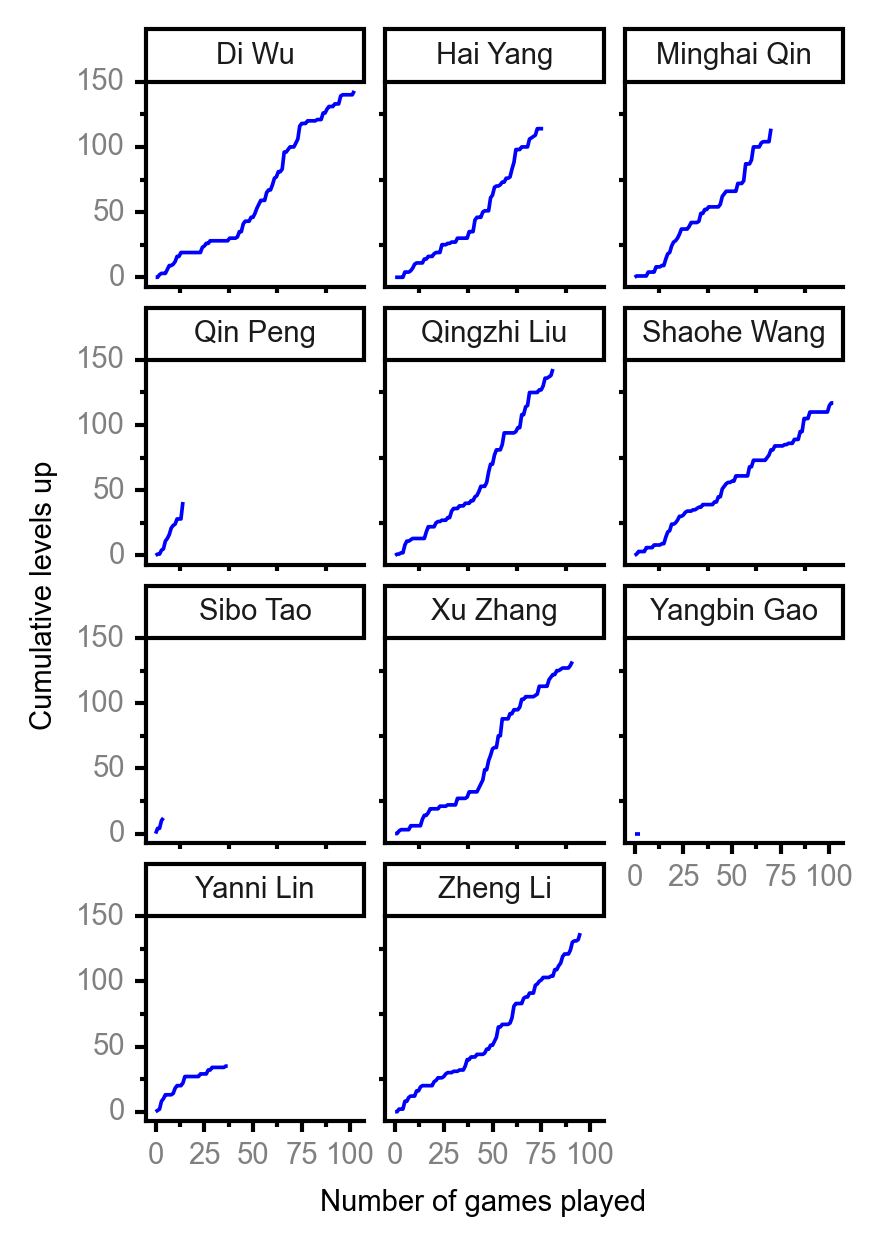
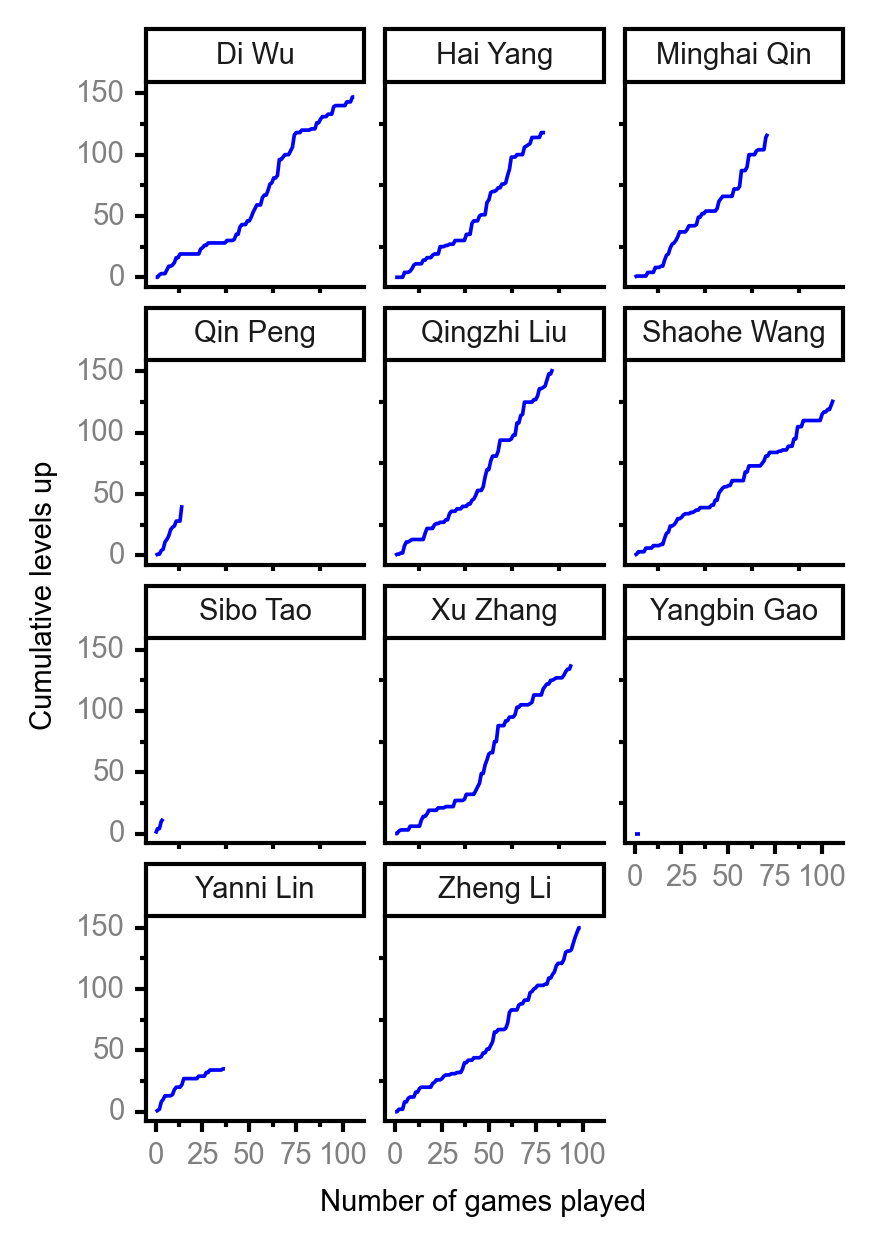
update player stats

diff --git a/player_stats.md b/player_stats.md
@@ -3,7 +3,7 @@ layout: player_stats
 title: Player Statistics
 author: Shaohe Wang
 author_url: https://scholar.google.com/citations?user=R_-kJV4AAAAJ&hl=en
-date: 2020-12-31
+date: 2021-01-02
 ---
 
 #### [Spreadsheet](https://docs.google.com/spreadsheets/d/1So3PBr9gV3I0LzApZOgJlQew2QjM1wAiWhR50rAnHRg/edit#gid=2137801449)
@@ -14,13 +14,13 @@ date: 2020-12-31
 
 | <br><br><br>Rank | <br><br><br>Player | <br> Lifetime <br> levels <br> up | <br><br> Winning <br> rate | <br> Average <br> levels <br> up | <br> Total <br> games <br> played | Games <br> played <br> as <br> MVP | Games <br> played <br> as <br> dealer | N_games <br> short <br> staffed <br> as dealer | Winning <br> rate <br> as <br> dealer |
 |:---:|:---:|:---:|:---:|:---:|:---:|:---:|:---:|:---:|:---:|
-| 1 | Qingzhi <br> Liu | 148 | 54.9% | 3.29 | 82 | 1 | 13 | 3 | 53.8% |
-| 2 | Di <br> Wu | 143 | 45.6% | 3.04 | 103 | 4 | 16 | 0 | 43.8% |
-| 3 | Zheng <br> Li | 142 | 58.3% | 2.54 | 96 | 3 | 16 | 0 | 62.5% |
-| 4 | Xu <br> Zhang | 134 | 46.7% | 3.12 | 92 | 1 | 13 | 0 | 38.5% |
-| 5 | Shaohe <br> Wang | 119 | 46.6% | 2.48 | 103 | 1 | 17 | 1 | 41.2% |
-| 6 | Minghai <br> Qin | 117 | 52.1% | 3.16 | 71 | 0 | 10 | 1 | 70.0% |
-| 7 | Hai <br> Yang | 114 | 46.8% | 3.17 | 77 | 3 | 12 | 1 | 41.7% |
+| 1 | Zheng <br> Li | 152 | 59.0% | 2.58 | 100 | 3 | 17 | 0 | 64.7% |
+| 2 | Qingzhi <br> Liu | 152 | 54.1% | 3.30 | 85 | 1 | 13 | 3 | 53.8% |
+| 3 | Di <br> Wu | 149 | 45.8% | 3.04 | 107 | 4 | 16 | 0 | 43.8% |
+| 4 | Xu <br> Zhang | 138 | 46.3% | 3.14 | 95 | 2 | 14 | 0 | 35.7% |
+| 5 | Shaohe <br> Wang | 129 | 47.7% | 2.53 | 107 | 2 | 19 | 1 | 42.1% |
+| 6 | Hai <br> Yang | 120 | 46.9% | 3.16 | 81 | 3 | 12 | 1 | 41.7% |
+| 7 | Minghai <br> Qin | 117 | 51.4% | 3.16 | 72 | 0 | 10 | 1 | 70.0% |
 | 8 | Qin <br> Peng | 41 | 80.0% | 3.42 | 15 | 1 | 2 | 0 | 100.0% |
 | 9 | Yanni <br> Lin | 40 | 39.5% | 2.67 | 38 | 1 | 3 | 1 | 66.7% |
 | 10 | Sibo <br> Tao | 14 | 80.0% | 3.50 | 5 | 0 | 0 | 0 | 0.0% |
